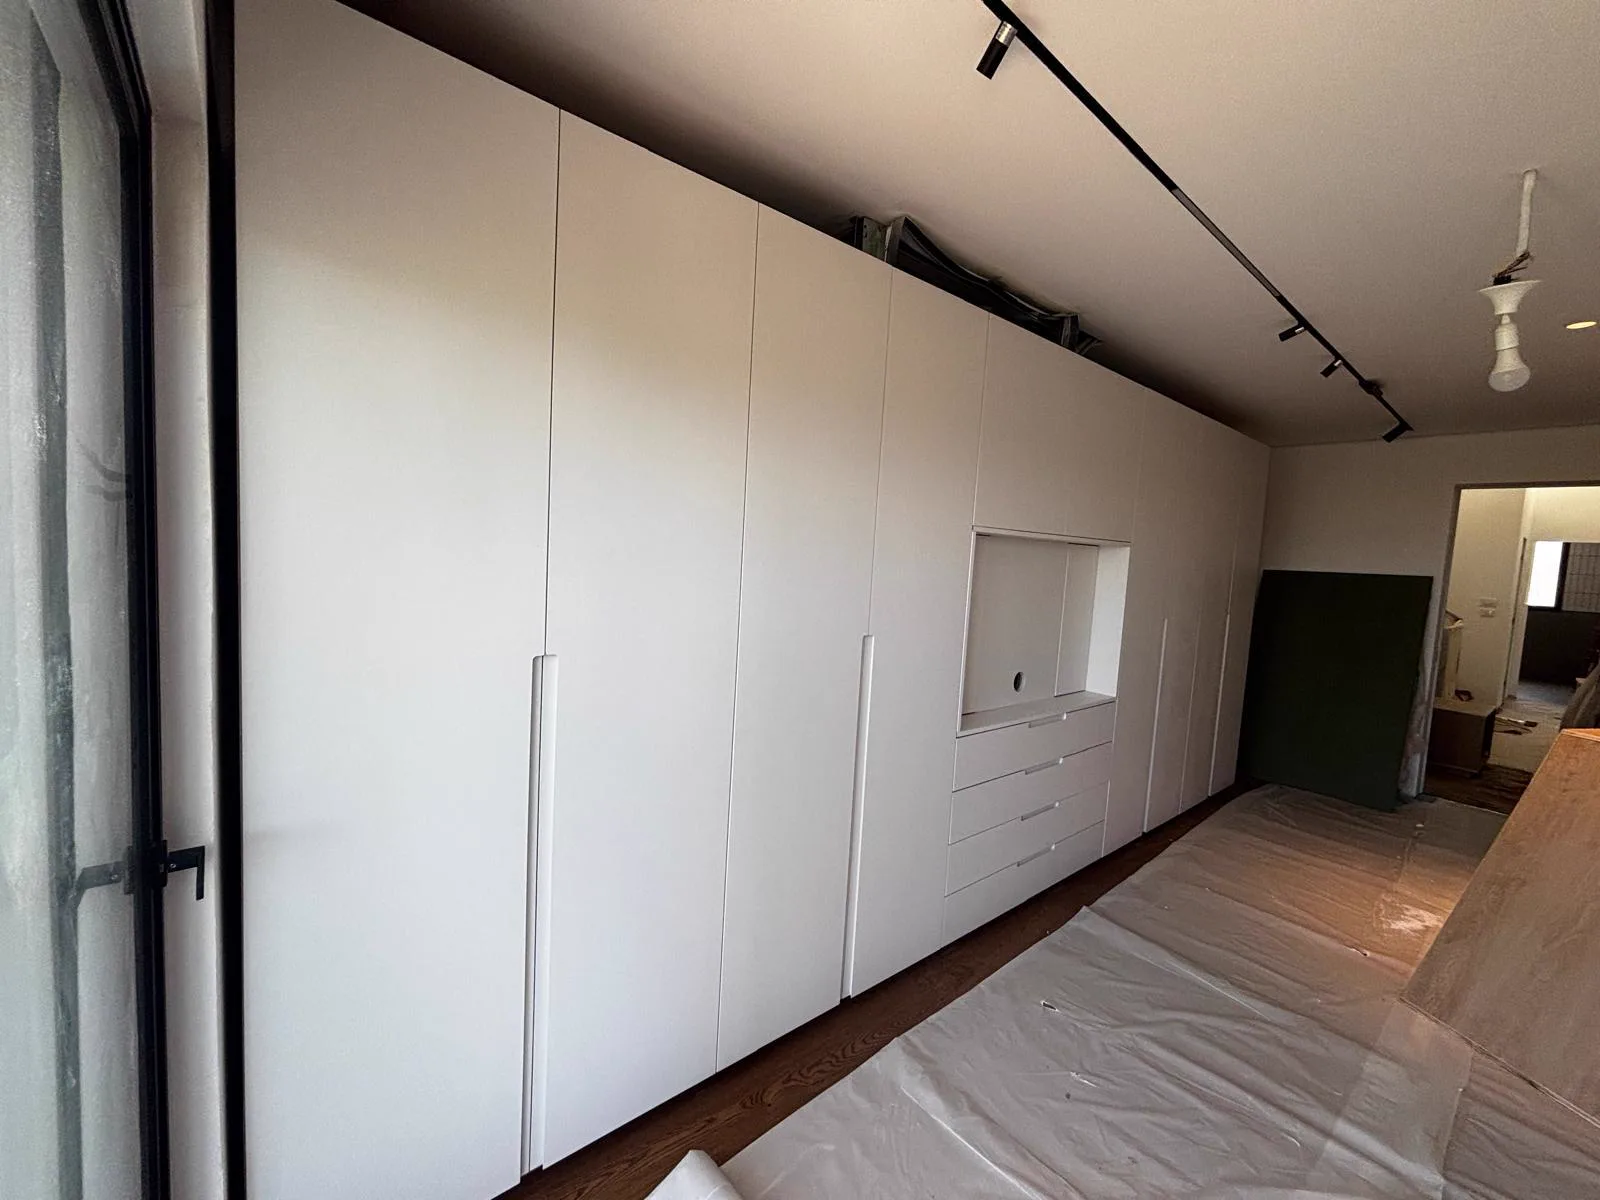
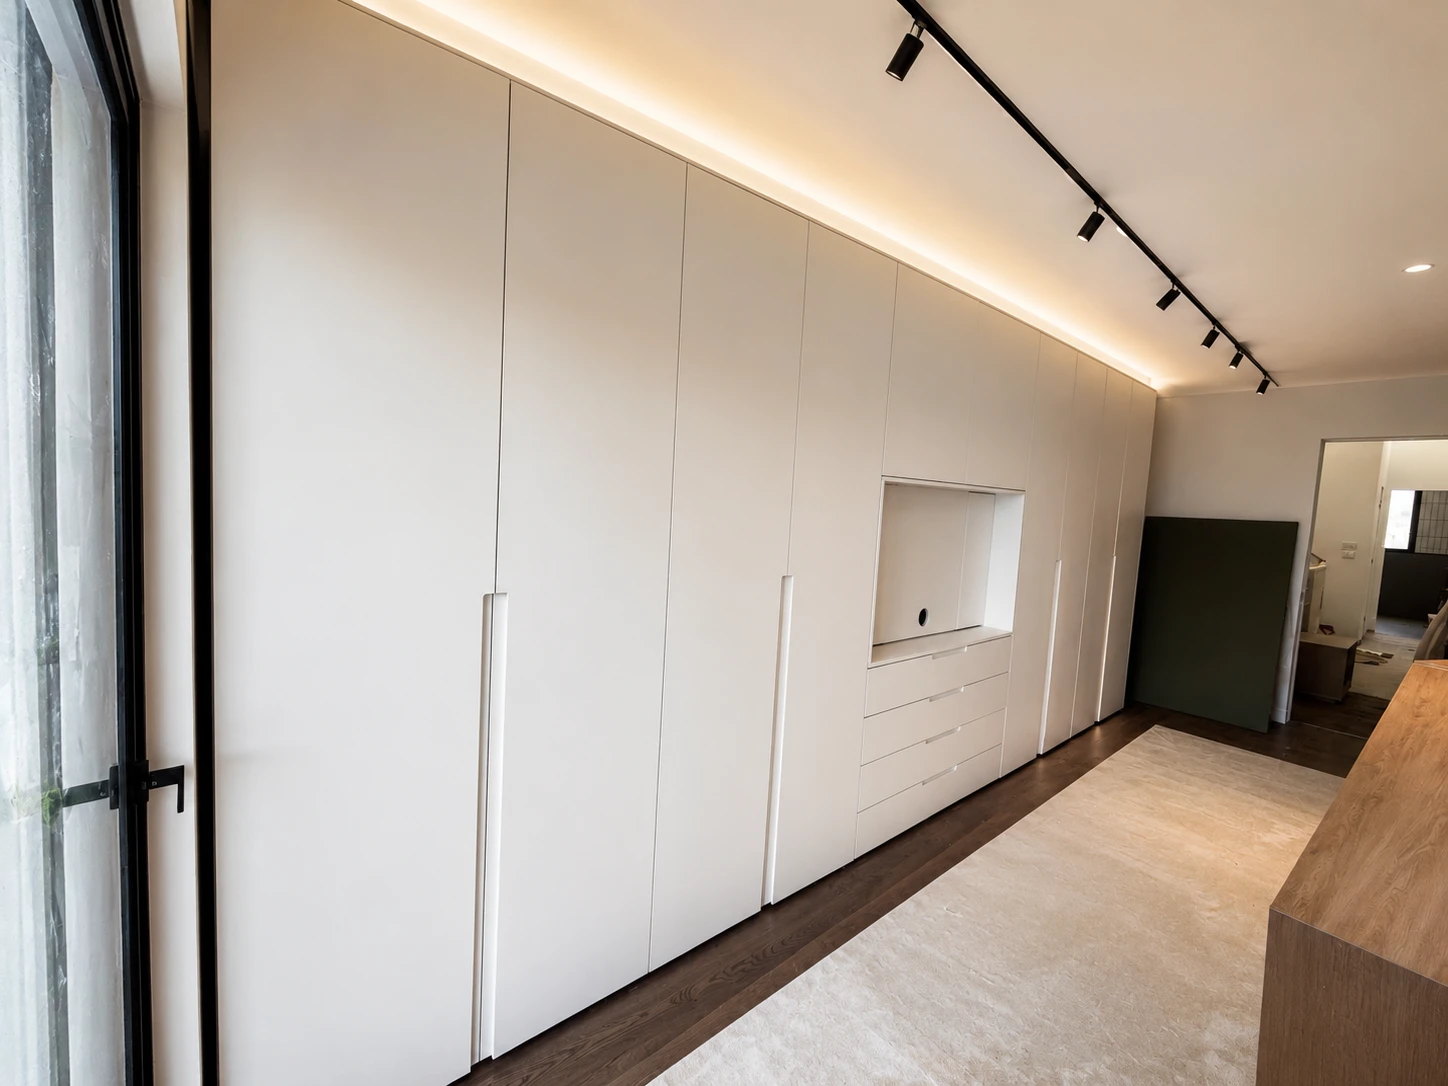
Add 18 new July-5 project photos + finished TV-wardrobe replacement
Deduped against existing site images: 6 exact duplicates and 2 near-duplicates
from the upload folder were skipped. Letterboxed farmhouse screenshot cropped.

diff --git a/client/src/components/variants/data.ts b/client/src/components/variants/data.ts
@@ -42,6 +42,26 @@ import wardrobeOakShelves from "@assets/wardrobe_oak_shelves.webp";
 import heroWardrobePan from "@assets/hero_wardrobe_pan.mp4";
 import heroWardrobePoster from "@assets/hero_wardrobe_poster.webp";
 
+// New photos (2026-07-05 batch from Aviv, deduped against existing site images)
+import flutedIslandKitchen from "@assets/fluted_island_kitchen.webp";
+import chandelierKitchen from "@assets/chandelier_kitchen.webp";
+import classicBrassKitchen from "@assets/classic_brass_kitchen.webp";
+import graygreenWoodNicheKitchen from "@assets/graygreen_wood_niche_kitchen.webp";
+import blackButcherblockKitchen from "@assets/black_butcherblock_kitchen.webp";
+import farmhouseWhiteKitchen from "@assets/farmhouse_white_kitchen.webp";
+import navyCoffeeNiche from "@assets/navy_coffee_niche.webp";
+import navyGlassHutch from "@assets/navy_glass_hutch.webp";
+import oakSlattedWardrobe from "@assets/oak_slatted_wardrobe.webp";
+import wardrobeOakColumn from "@assets/wardrobe_oak_column.webp";
+import cornerWardrobeOak from "@assets/corner_wardrobe_oak.webp";
+import tvWardrobeOakNiche from "@assets/tv_wardrobe_oak_niche.webp";
+import bathStoneOakVanity from "@assets/bath_stone_oak_vanity.webp";
+import walnutFlutedVanity from "@assets/walnut_fluted_vanity.webp";
+import walnutFloatingVanity from "@assets/walnut_floating_vanity.webp";
+import slattedMediaNiche from "@assets/slatted_media_niche.webp";
+import denMediaWall from "@assets/den_media_wall.webp";
+import officeMintLibrary from "@assets/office_mint_library.webp";
+
 export const CONTACT = {
   phoneDisplay: "054-327-3719",
   phoneHref: "tel:054-327-3719",
@@ -104,6 +124,28 @@ export const newProjects: Project[] = [
   { src: wardrobeTvWall, alt: "קיר ארונות לבן עם נישת טלוויזיה", label: "ארונות" },
   { src: wardrobeWhiteGray, alt: "ארון חדר שינה לבן עם יחידת מגירות", label: "חדרי שינה" },
   { src: understairsStorage, alt: "אחסון בהתאמה מלאה מתחת למדרגות", label: "נגרות אומן", portrait: true },
+];
+
+// 2026-07-05 batch — new installs and finished projects
+export const july5Projects: Project[] = [
+  { src: flutedIslandKitchen, alt: "מטבח בהיר עם אי מעוגל בחיפוי מחורץ", label: "מטבחים", portrait: true },
+  { src: chandelierKitchen, alt: "מטבח יוקרתי עם אי שיש וגופי תאורה מעוצבים", label: "מטבחים", portrait: true },
+  { src: classicBrassKitchen, alt: "מטבח קלאסי לבן עם פרזול זהב", label: "מטבחים" },
+  { src: graygreenWoodNicheKitchen, alt: "מטבח אפור־ירוק עם נישת עץ טבעי ואי שיש כהה", label: "מטבחים" },
+  { src: blackButcherblockKitchen, alt: "מטבח שחור עם משטח עץ אלון וויטרינות", label: "מטבחים", portrait: true },
+  { src: farmhouseWhiteKitchen, alt: "מטבח כפרי לבן עם שולחן וספסל מעץ", label: "מטבחים" },
+  { src: navyCoffeeNiche, alt: "פינת קפה כחולה עם נישת אלון", label: "מטבחים" },
+  { src: navyGlassHutch, alt: "ויטרינה כחולה עם משטח וגב אלון", label: "מטבחים", portrait: true },
+  { src: oakSlattedWardrobe, alt: "ארון אלון מחורץ עם עמודת ספרייה", label: "ארונות", portrait: true },
+  { src: wardrobeOakColumn, alt: "ארון קיר לבן עם עמודת מדפי אלון", label: "ארונות", portrait: true },
+  { src: cornerWardrobeOak, alt: "ארון פינתי עם עמודת תצוגה מאלון", label: "ארונות", portrait: true },
+  { src: tvWardrobeOakNiche, alt: "קיר ארונות עם נישת טלוויזיה מחופה אלון", label: "ארונות" },
+  { src: bathStoneOakVanity, alt: "ארון אמבטיה מחורץ עם משטח אבן", label: "אמבטיה" },
+  { src: walnutFlutedVanity, alt: "ארון אמבטיה מחורץ בגוון אגוז עם כיור מונח", label: "אמבטיה" },
+  { src: walnutFloatingVanity, alt: "ארון אמבטיה צף בגוון אגוז עם כיור שחור", label: "אמבטיה", portrait: true },
+  { src: slattedMediaNiche, alt: "נישת מדיה עם חיפוי מחורץ בסלון", label: "סלון" },
+  { src: denMediaWall, alt: "חדר משפחה עם קיר מדיה וחיפוי עץ", label: "סלון" },
+  { src: officeMintLibrary, alt: "ספריית תצוגה בגוון מנטה למשרד", label: "משרד" },
 ];
 
 export const heroImages = {

diff --git a/client/src/components/variants/V9Museum.tsx b/client/src/components/variants/V9Museum.tsx
@@ -3,6 +3,7 @@ import {
   CONTACT,
   FACTS,
   heroImages,
+  july5Projects,
   newProjects,
   sketchImage,
   tallProjects,
@@ -63,6 +64,7 @@ const ALL = dedupe([
   heroAsProject(heroImages.navyOakNiche, "ארונות"),
   heroAsProject(heroImages.wardrobeOakShelves, "ארונות"),
   ...newProjects,
+  ...july5Projects,
   ...wideProjects,
   ...tallProjects,
 ]).filter((p) => p.alt !== "ארונות גובה מפורניר אלון"); // removed from the exhibition per Aviv
